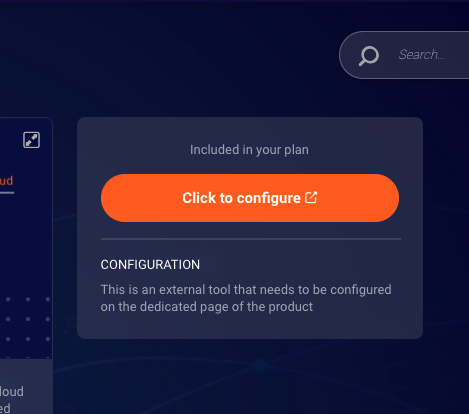
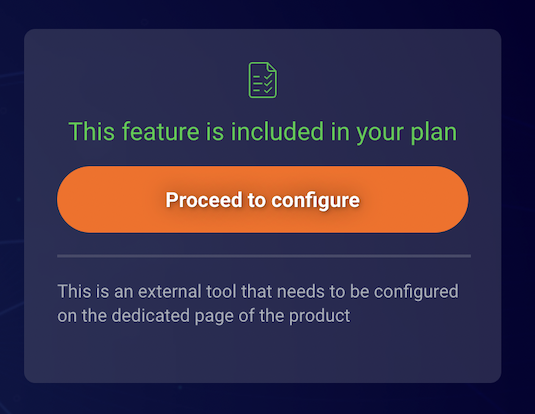
updated information
updated information, pictures, terminology and add explanations

diff --git a/pages/Documents/Security&Authentication/ConsumerAuthentication/configuration.md b/pages/Documents/Security&Authentication/ConsumerAuthentication/configuration.md
@@ -21,13 +21,16 @@ indicator: both
 
 ![Search for Consumer Identity Provider in the Management Console](img/mgmt_search_consumer_idp.png)
 
+![Consumer Identity Provider in the Management Console](img/mgmt_consumer_idp.png)
+
+
 {:start="3"}
 3.  Click on 'Click to configure'
 
 ![Click to configure the Consumer Identity Provider](img/mgmt_consumer_idp_configure.png)
 
 {:start="4"}
-4. In section #2 — "Define Identity Provider", select the preferred OAuth 2.0 Authentication Type, and then complete the required fields
+4. In section #2 — "Configure identity providers auth settings", select the preferred OAuth 2.0 Authentication Type, and then complete the required fields
 
 ![Select consumer authentication type](img/consumer_idp_select_type.png)
 
@@ -35,19 +38,23 @@ The following parameters should be defined:
 
 * **OAuth 2.0 Authentication Type** - Implicit / Code Flow
 
-* **OAuth 2.0 Authentication Endpoint** - An HTTPS URL that used in the case that the consumer conversation window is configured as a [Separate Browser Window](https://knowledge.liveperson.com/messaging-channels-web-messaging-authenticated-web-messaging.html#separate-browser-window-flow).
+* **Issuer Display Name** - The presentation name for the identity provider issuer
 
-* **OAuth 2.0 Token Endpoint** - An HTTPS URL that used in Code Flow
+* **JWT issuer (iss)** - The identifier of the principal that issued the JWT. The 'iss' value is a case-sensitive string containing a URL value.
+
+* **Authentication Endpoint** - An HTTPS URL OAuth 2.0 Authorization Endpoint that is used by LivePerson to initiate the authentication flow with your idenitity principal. (this endpoint is invoked in case the conversation window opens as an external window)
+
+* **Token Endpoint** - An HTTPS URL for token exchange. used in Code Flow.
+
+* **Client ID** - Used in Access Token Request
+
+* **Client Secret** - Used in Access Token Request
 
 * **Choose IDP Certificate Type** - JWT Public Key / JWKS Endpoint
 
-* **OAuth 2.0 Client ID** - Used in Code Flow
+* **JS Method Name** - The method that LivePerson will invoke on your pages to receive a code/id_token
 
-* **OAuth 2.0 Client Secret** - Used in Code Flow
-
-* **JS Method Name** - When Conversational Cloud embedded window is used in Web
-
-* **JS Context** - When Conversational Cloud embedded window is used in Web
+* **JS Context** - An indicator of the method location when the Conversational Cloud embedded window is used in Web
 
 ### RFC Compliance
 
